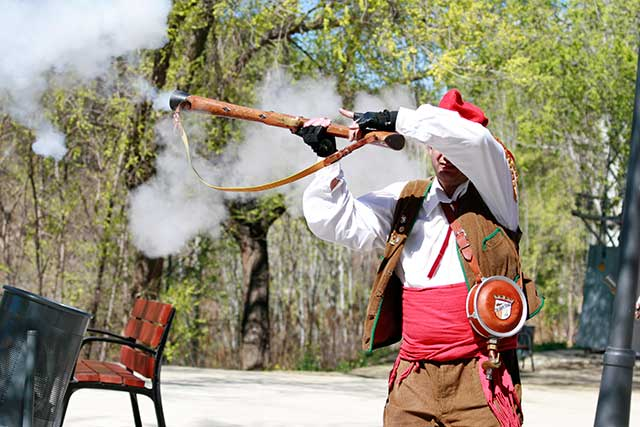
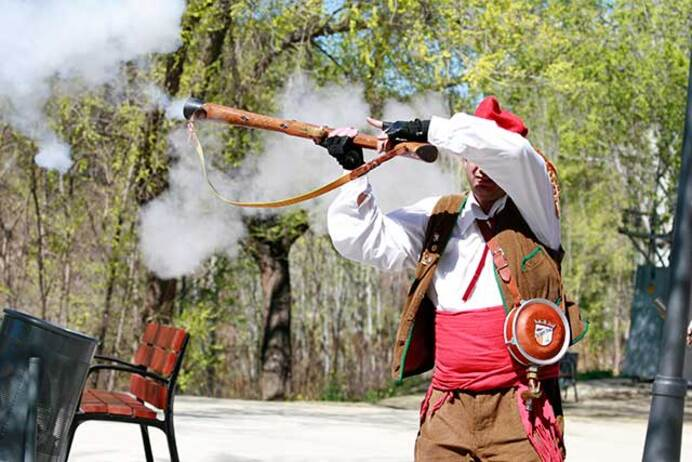
imagenes nuevas

diff --git a/src/detailMedieval.html b/src/detailMedieval.html
@@ -115,8 +115,16 @@
             <a href="./detailFestaMajor.html">
                 <article>
                     <figure>
-                        <img src="../img/festa-major-suria.jpeg?as=avif" type="image/avif" alt="Imatge trapellada de la festa major"/>
-                    <figcaption>Trapellada</figcaption>
+                        <!-- Art Direction y Resolution Switching -->
+                        <picture>
+                            <!-- Imagen optimizada para pantallas pequeñas (menores a 768px) -->
+                            <source media="(max-width: 768px)" srcset="../img/festa-major-suria768.jpeg?as=avif" type="image/avif" />
+                            <!-- Imagen optimizada para pantallas más grandes (mayores a 768px) -->
+                            <source media="(min-width: 769px)" srcset="../img/festa-major-suriaaside.jpeg?as=avif" type="image/avif" />
+                            <!-- Imagen estándar si el navegador no soporta AVIF -->
+                            <img src="../img/festa-major-suria.jpeg" alt="Imatge trapellada de la festa major" />
+                        </picture>
+                        <figcaption>Trapellada</figcaption>
                     </figure>
                     <div class="detalleseventoaside">
                         <h4>Festa Major</h4>
@@ -126,7 +134,15 @@
             <a href="./detailCaramelles.html">
                 <article>
                     <figure>
-                        <img src="../img/trabucaires.jpg?as=avif" type="image/avif" alt="Imatge trabucaires"/>
+                        <!-- Art Direction y Resolution Switching -->
+                        <picture>
+                            <!-- Imagen optimizada para pantallas pequeñas (menores a 768px) -->
+                            <source media="(max-width: 768px)" srcset="../img/trabucaires768_aside.jpg?as=avif" type="image/avif" />
+                            <!-- Imagen optimizada para pantallas más grandes (mayores a 768px) -->
+                            <source media="(min-width: 769px)" srcset="../img/trabucairesaside.jpg?as=avif" type="image/avif" />
+                            <!-- Imagen estándar si el navegador no soporta AVIF -->
+                            <img src="../img/trabucaires.jpg" alt="Imatge trabucaires" />
+                        </picture>
                         <figcaption>Galejada</figcaption>
                     </figure>
                     <div class="detalleseventoaside">
@@ -137,8 +153,16 @@
             <a href="./detailBarbara.html">
                 <article>
                     <figure>
-                        <img src="../img/santabarbara.jpg?as=avif" type="image/avif" alt="Imatge santa Bàrbara"/>
+                        <picture>
+                            <!-- Imagen optimizada para pantallas pequeñas (menores a 768px) -->
+                            <source media="(max-width: 768px)" srcset="../img/santabarbara768_aside.jpg?as=avif" type="image/avif" />
+                            <!-- Imagen optimizada para pantallas más grandes (mayores a 768px) -->
+                            <source media="(min-width: 769px)" srcset="../img/santabarbaraaside.jpg?as=avif" type="image/avif" />
+                            <!-- Imagen estándar si el navegador no soporta AVIF -->
+                            <img src="../img/santabarbara.jpg?as=avif" alt="Imatge fira medieval" />
+                        </picture>
                         <figcaption>Estàtua del miner</figcaption>
+    
                     </figure>
                     <div class="detalleseventoaside">
                     <h4>Santa Bàrbara</h4>

diff --git a/src/detailCaramelles.html b/src/detailCaramelles.html
@@ -107,7 +107,15 @@
             <a href="./detailFestaMajor.html">
                 <article>
                     <figure>
-                        <img src="../img/festa-major-suria.jpeg?as=avif" alt="Imatge trapellada de la festa major" />
+                        <!-- Art Direction y Resolution Switching -->
+                        <picture>
+                            <!-- Imagen optimizada para pantallas pequeñas (menores a 768px) -->
+                            <source media="(max-width: 768px)" srcset="../img/festa-major-suria768.jpeg?as=avif" type="image/avif" />
+                            <!-- Imagen optimizada para pantallas más grandes (mayores a 768px) -->
+                            <source media="(min-width: 769px)" srcset="../img/festa-major-suriaaside.jpeg?as=avif" type="image/avif" />
+                            <!-- Imagen estándar si el navegador no soporta AVIF -->
+                            <img src="../img/festa-major-suria.jpeg" alt="Imatge trapellada de la festa major" />
+                        </picture>
                         <figcaption>Trapellada</figcaption>
                     </figure>
                     <div class="detalleseventoaside">
@@ -119,7 +127,15 @@
             <a href="./detailMedieval.html">
                 <article>
                     <figure>
-                        <img src="../img/FiraMedieval2.jpg?as=avif" alt="Imatge fira medieval" />
+                        <!-- Art Direction y Resolution Switching -->
+                        <picture>
+                            <!-- Imagen optimizada para pantallas pequeñas (menores a 768px) -->
+                            <source media="(max-width: 768px)" srcset="../img/FiraMedieval2768_aside.jpg?as=avif" type="image/avif" />
+                            <!-- Imagen optimizada para pantallas más grandes (mayores a 768px) -->
+                            <source media="(min-width: 769px)" srcset="../img/FiraMedieval2aside.jpg?as=avif" type="image/avif" />
+                            <!-- Imagen estándar si el navegador no soporta AVIF -->
+                            <img src="../img/FiraMedieval2.jpg" alt="Imatge fira medieval" />
+                        </picture>
                         <figcaption>Músics de la fira</figcaption>
                     </figure>
                     <div class="detalleseventoaside">
@@ -131,9 +147,18 @@
             <a href="./detailBarbara.html">
                 <article>
                     <figure>
-                        <img src="../img/santabarbara.jpg?as=avif" alt="Imatge santa Bàrbara" />
-                        <figcaption>Estàtua del miner</figcaption>
-                    </figure>
+                    <picture>
+                        <!-- Imagen optimizada para pantallas pequeñas (menores a 768px) -->
+                        <source media="(max-width: 768px)" srcset="../img/santabarbara768_aside.jpg?as=avif" type="image/avif" />
+                        <!-- Imagen optimizada para pantallas más grandes (mayores a 768px) -->
+                        <source media="(min-width: 769px)" srcset="../img/santabarbaraaside.jpg?as=avif" type="image/avif" />
+                        <!-- Imagen estándar si el navegador no soporta AVIF -->
+                        <img src="../img/santabarbara.jpg?as=avif" alt="Imatge fira medieval" />
+                    </picture>
+                    <figcaption>Estàtua del miner</figcaption>
+
+                </figure>
+                    
                     <div class="detalleseventoaside">
                         <h4>Santa Bàrbara</h4>
                     </div>

diff --git a/src/detailFestaMajor.html b/src/detailFestaMajor.html
@@ -112,7 +112,15 @@
                 <a href="./detailMedieval.html">
                     <article>
                         <figure>
-                            <img src="../img/FiraMedieval2.jpg?as=avif" type="image/avif" alt="Imatge fira medieval"/>
+                            <!-- Art Direction y Resolution Switching -->
+                            <picture>
+                                <!-- Imagen optimizada para pantallas pequeñas (menores a 768px) -->
+                                <source media="(max-width: 768px)" srcset="../img/FiraMedieval2768_aside.jpg?as=avif" type="image/avif" />
+                                <!-- Imagen optimizada para pantallas más grandes (mayores a 768px) -->
+                                <source media="(min-width: 769px)" srcset="../img/FiraMedieval2aside.jpg?as=avif" type="image/avif" />
+                                <!-- Imagen estándar si el navegador no soporta AVIF -->
+                                <img src="../img/FiraMedieval2.jpg" alt="Imatge fira medieval" />
+                            </picture>
                             <figcaption>Músics de la fira</figcaption>
                         </figure>
                         <div class="detalleseventoaside">
@@ -123,7 +131,15 @@
             <a href="./detailCaramelles.html">
                 <article>
                     <figure>
-                        <img src="../img/trabucaires.jpg?as=avif" type="image/avif" alt="Imatge trabucaires"/>
+                        <!-- Art Direction y Resolution Switching -->
+                        <picture>
+                            <!-- Imagen optimizada para pantallas pequeñas (menores a 768px) -->
+                            <source media="(max-width: 768px)" srcset="../img/trabucaires768_aside.jpg?as=avif" type="image/avif" />
+                            <!-- Imagen optimizada para pantallas más grandes (mayores a 768px) -->
+                            <source media="(min-width: 769px)" srcset="../img/trabucairesaside.jpg?as=avif" type="image/avif" />
+                            <!-- Imagen estándar si el navegador no soporta AVIF -->
+                            <img src="../img/trabucaires.jpg" alt="Imatge trabucaires" />
+                        </picture>
                         <figcaption>Galejada</figcaption>
                     </figure>
                     <div class="detalleseventoaside">
@@ -134,8 +150,16 @@
             <a href="./detailBarbara.html">
                 <article>
                     <figure>
-                        <img src="../img/santabarbara.jpg?as=avif" type="image/avif" alt="Imatge santa Bàrbara"/>
+                        <picture>
+                            <!-- Imagen optimizada para pantallas pequeñas (menores a 768px) -->
+                            <source media="(max-width: 768px)" srcset="../img/santabarbara768_aside.jpg?as=avif" type="image/avif" />
+                            <!-- Imagen optimizada para pantallas más grandes (mayores a 768px) -->
+                            <source media="(min-width: 769px)" srcset="../img/santabarbaraaside.jpg?as=avif" type="image/avif" />
+                            <!-- Imagen estándar si el navegador no soporta AVIF -->
+                            <img src="../img/santabarbara.jpg?as=avif" alt="Imatge fira medieval" />
+                        </picture>
                         <figcaption>Estàtua del miner</figcaption>
+    
                     </figure>
                     <div class="detalleseventoaside">
                     <h4>Santa Bàrbara</h4>
